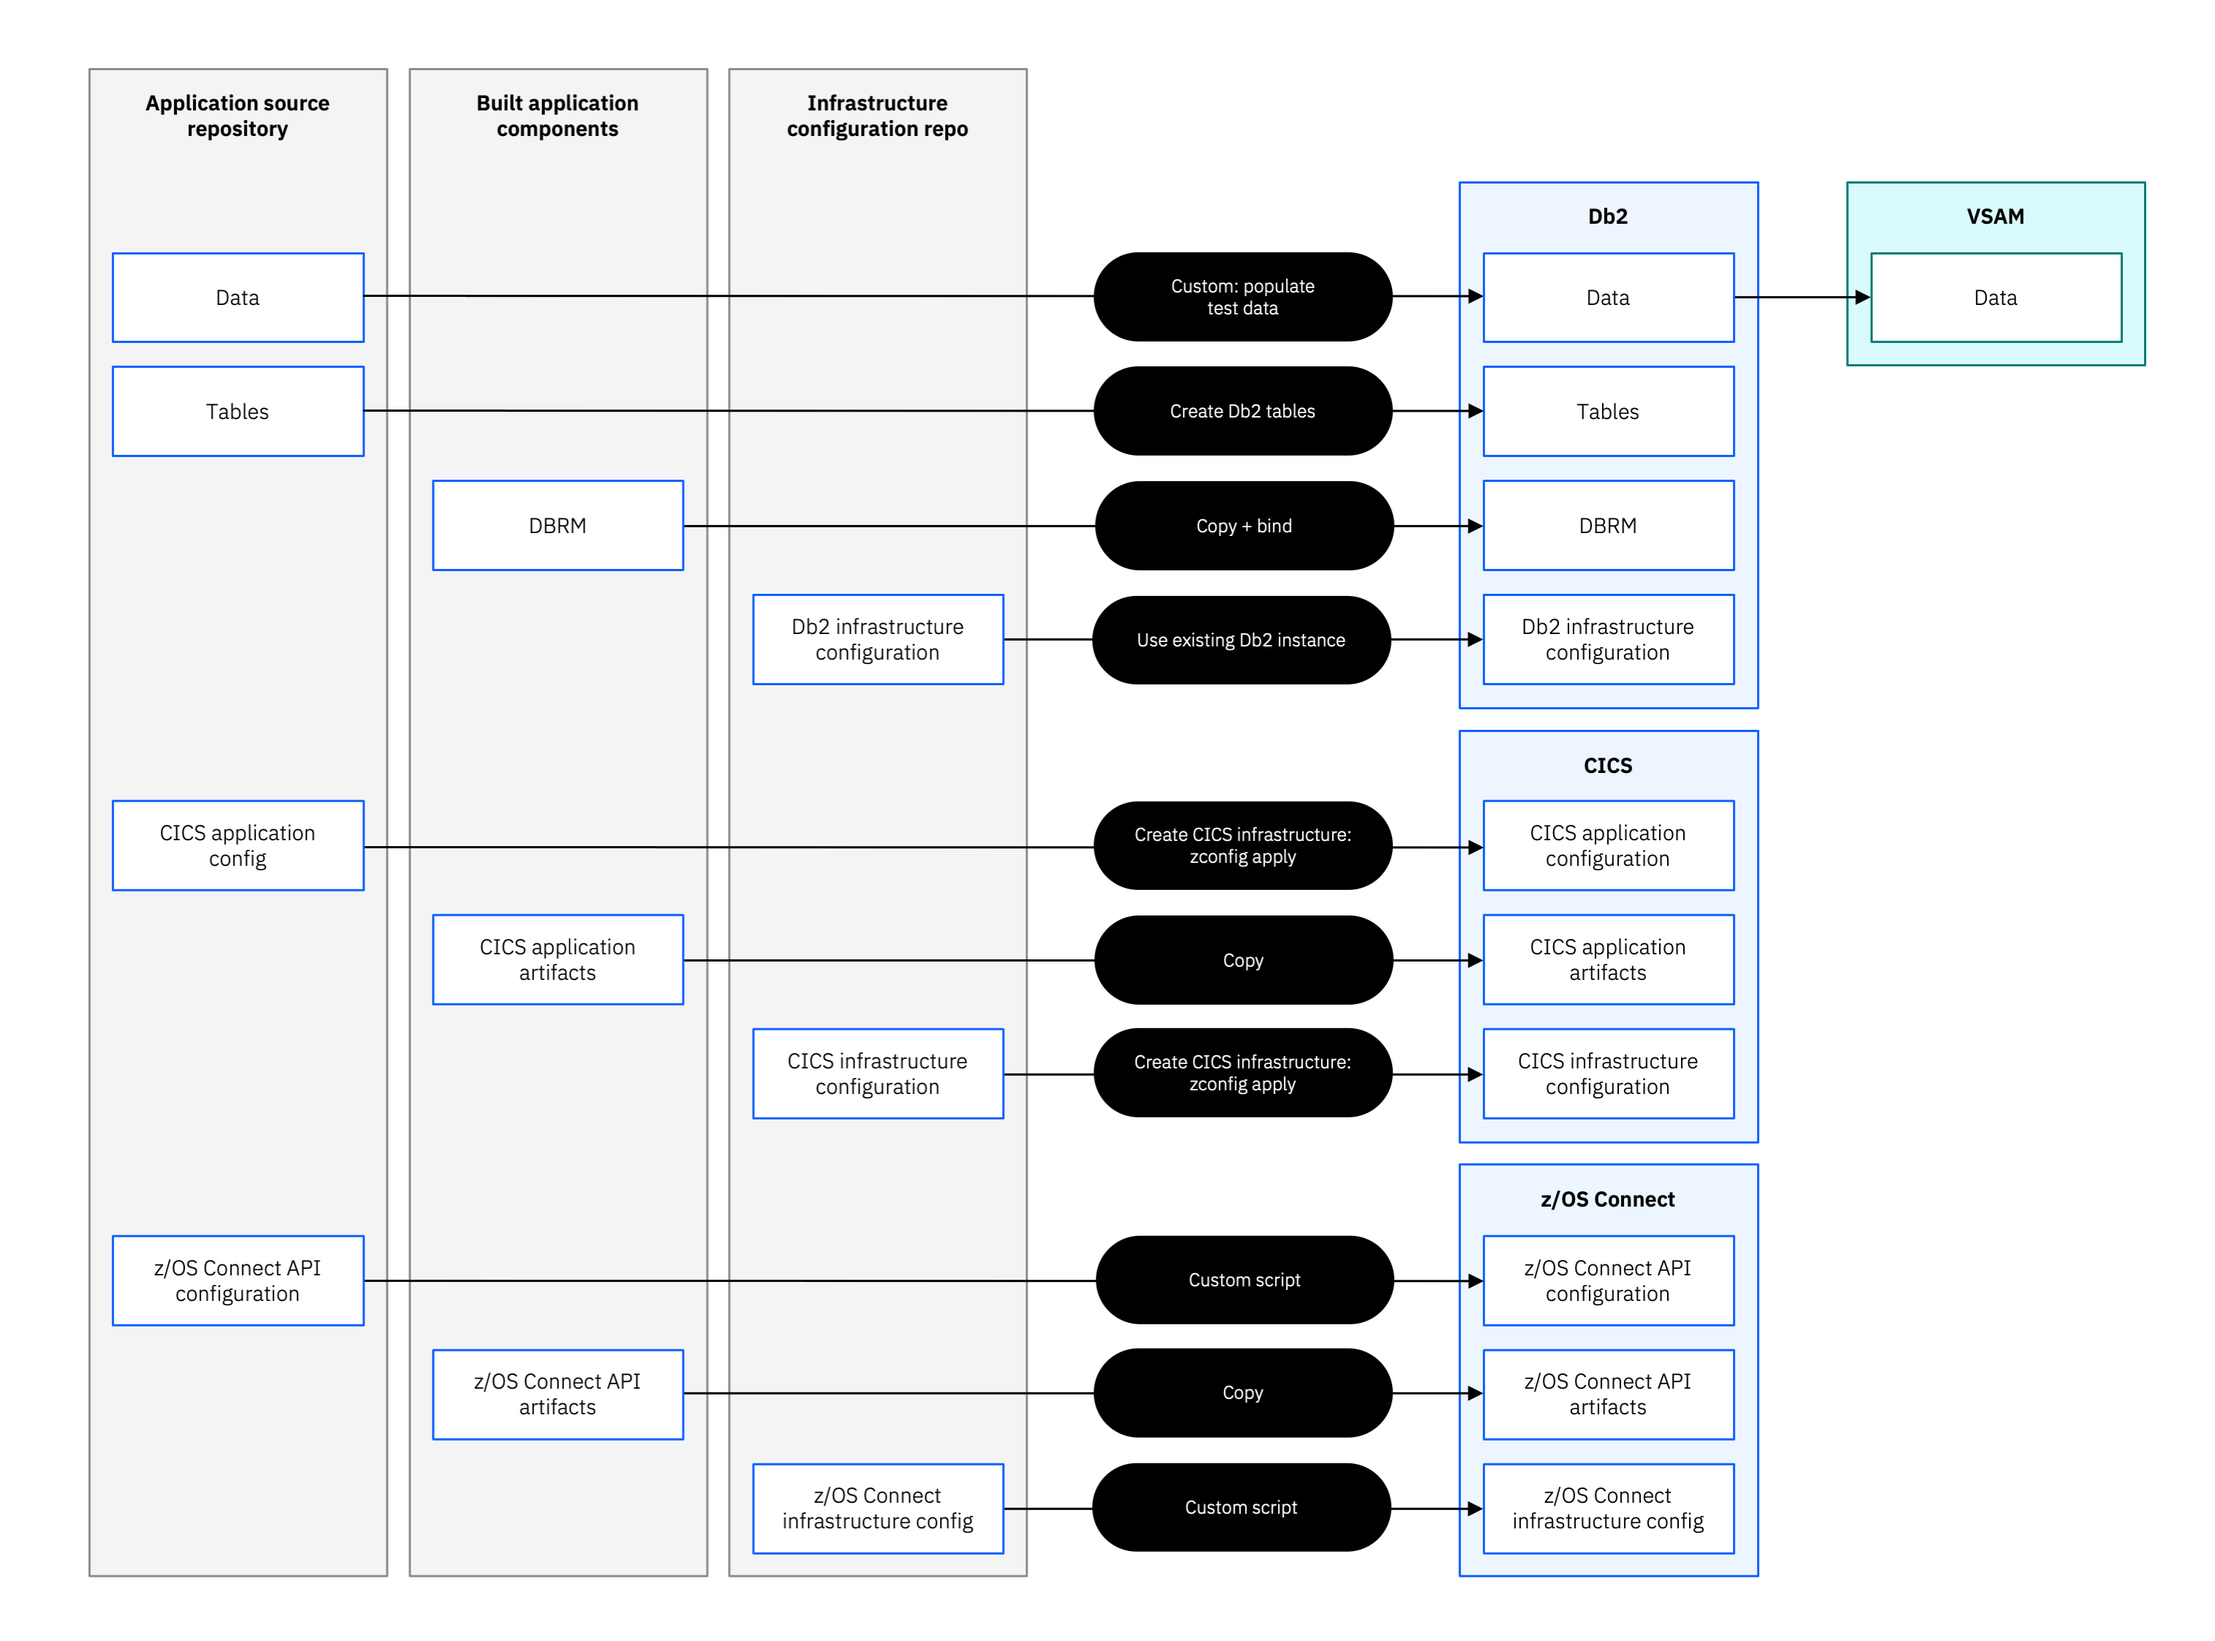
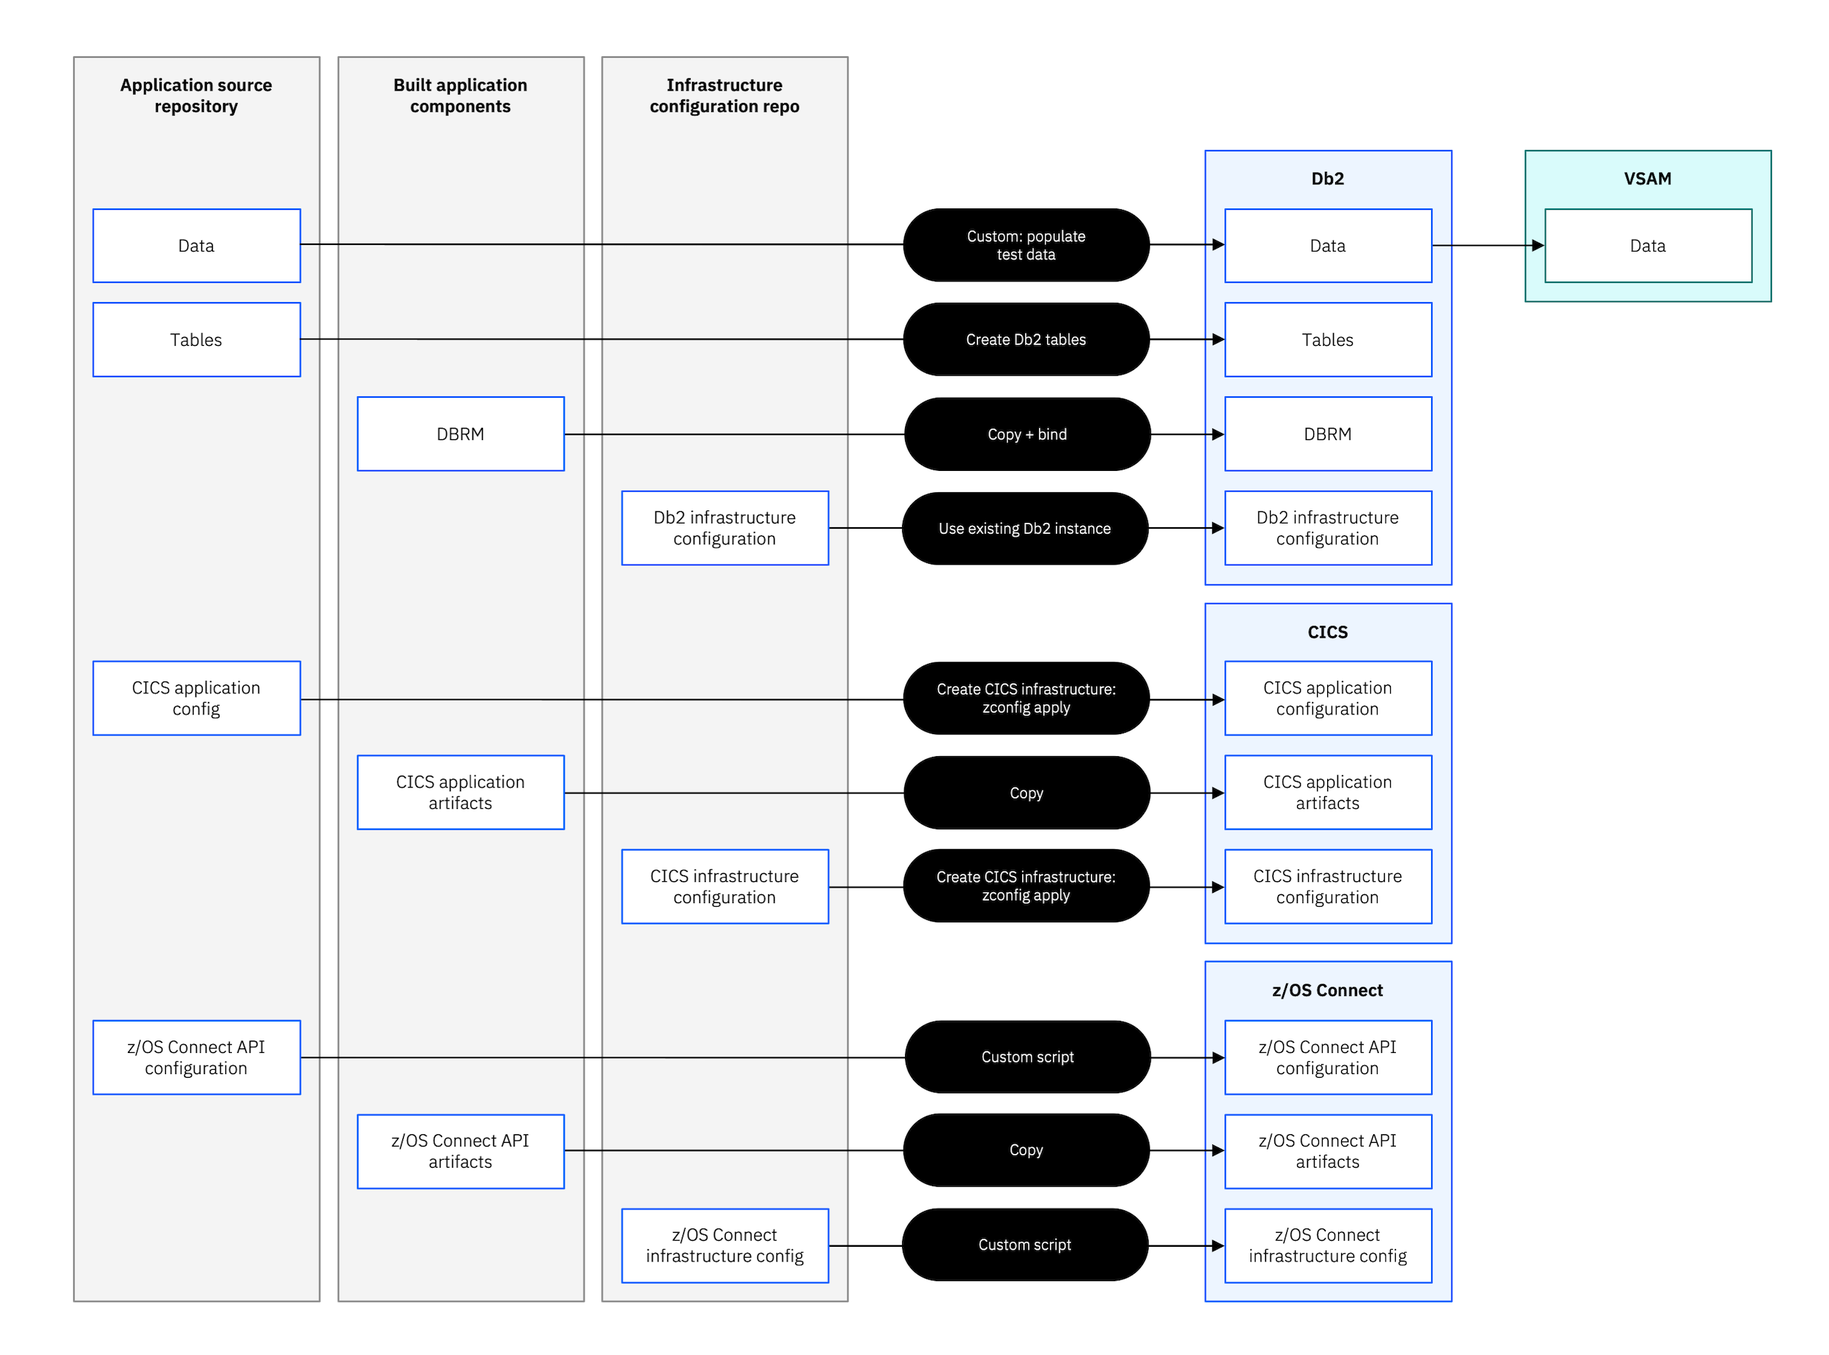
Doc image resize (#140)

diff --git a/docs/docs/development-workflows/index.md b/docs/docs/development-workflows/index.md
@@ -55,7 +55,7 @@ A task-based workflow that uses Zowe CLI to clone your branch on z/OS USS and ru
 
 A development workflow optimized for rapid iteration, allowing you to synchronize changes directly to the target environment and run build and deployment activities without requiring committed changes.
 
-![Workflow Diagram](images/workflow-overview.jpg)
+![Workflow Diagram](images/workflow-overview.png)
 
 
 The following sections describe each workflow in more detail and provide guidance for common development scenarios.

diff --git a/docs/docs/installation-and-setup/prerequisites.md b/docs/docs/installation-and-setup/prerequisites.md
@@ -51,7 +51,6 @@ The following tools must be installed on z/OS USS. These are typically installed
 | z/OS Middleware Configuration Tool (zconfig) | 0.6.0 | `zconfig.zconfig_home` |
 | Wazi Deploy | 3.0.7.3 | `wazideploy.wazideploy_home` |
 | ZCodeScan | 1.0.2 | `zcodescan.zcodescan_home` |
-| Ansible | 2.15 | — |
 | CICS TS Resource Builder | 1.0.6 | `zconfig.zcb_home` |
 | Git | Current supported version | Must be available in PATH on USS |
 
